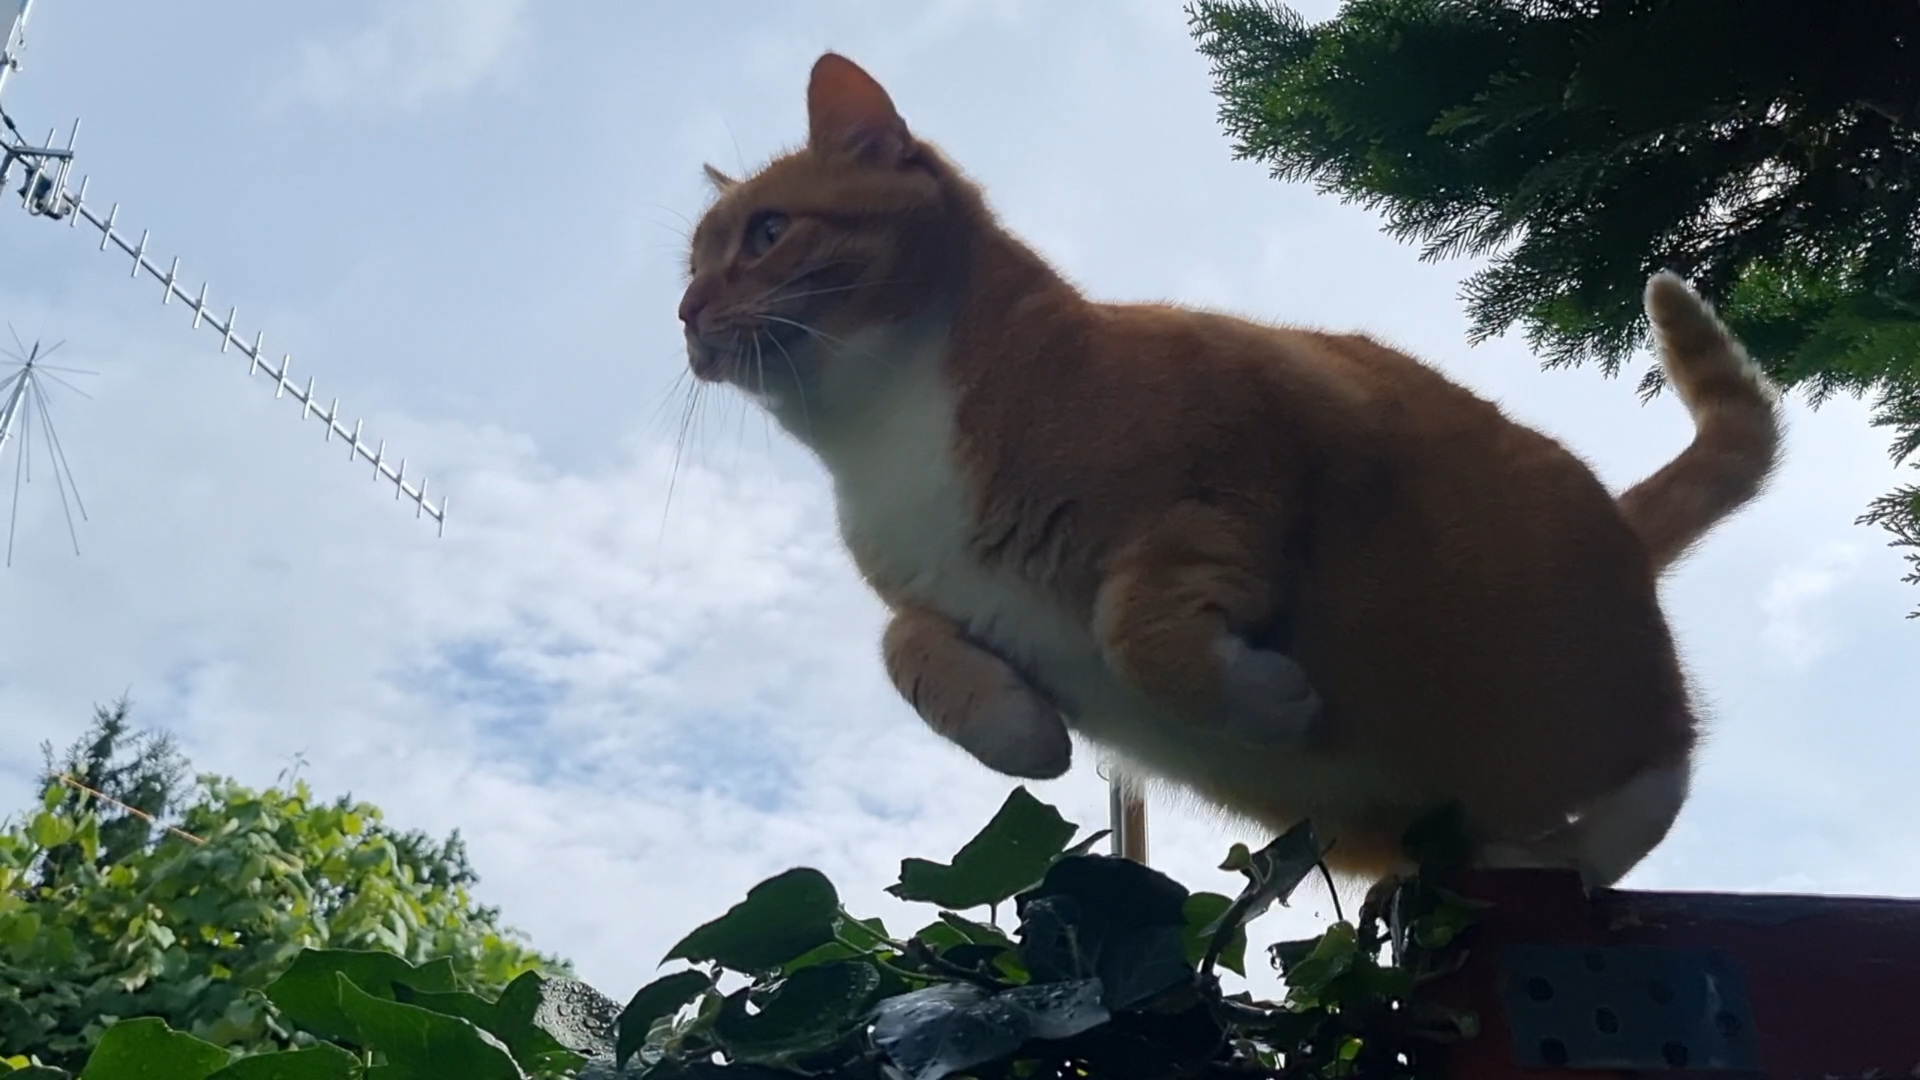
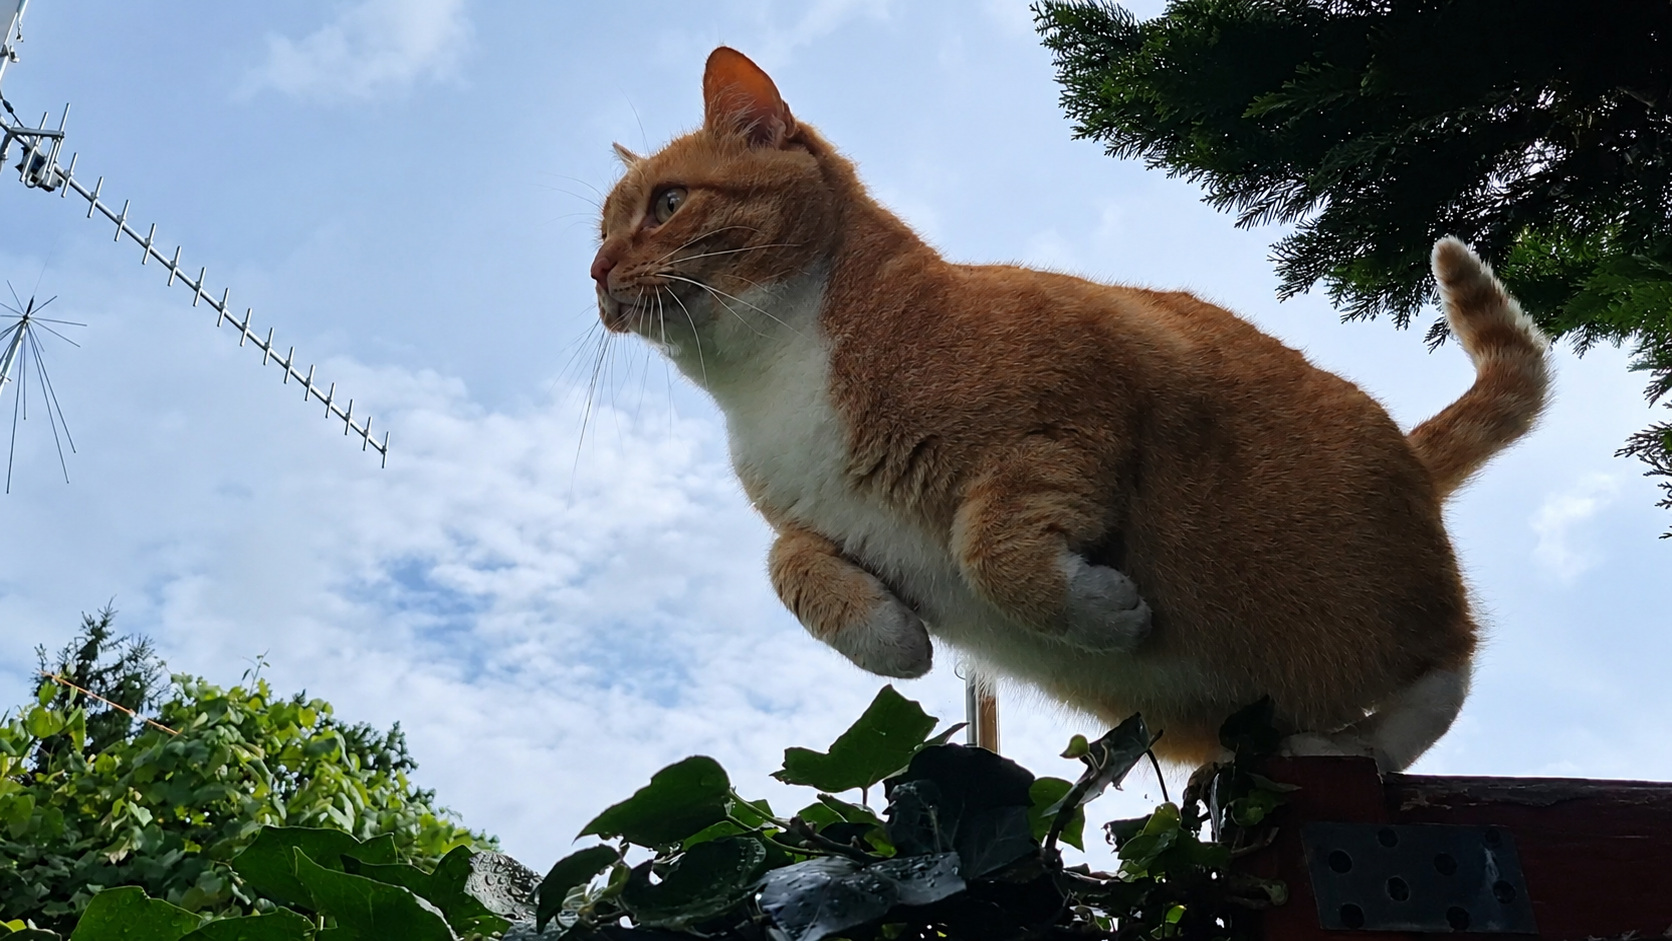
Zmiana lokalizacji plików

diff --git a/content/docs/meshcore/anteny.md b/content/docs/meshcore/anteny.md
@@ -21,8 +21,8 @@ Przykładowo, jeśli antena posiada złącze `RP-SMA Female` (z pinem w środku)
 
 <div class="docs-img-row">
 	<div class="docs-img-row__item">
-		<a href="/images/photos/sma-female-i-sma-male_new.jpg" data-lightbox aria-label="Powiększ zdjęcie złącza SMA Female i SMA Male">
-			<img src="/images/photos/sma-female-i-sma-male_new.jpg" alt="Złącze SMA Female obok złącza SMA Male" width="760" height="380" class="docs-img-row__hero">
+		<a href="/images/photos/sma-female-i-sma-male.jpg" data-lightbox aria-label="Powiększ zdjęcie złącza SMA Female i SMA Male">
+			<img src="/images/photos/sma-female-i-sma-male.jpg" alt="Złącze SMA Female obok złącza SMA Male" width="760" height="380" class="docs-img-row__hero">
 		</a>
 	</div>
 	<div class="docs-img-row__item">
@@ -66,7 +66,7 @@ Jest jeszcze lepsza wersja, czyli `RG316`. Chińczycy nie produkują jednak taki
 Jeśli napiszesz do sprzedawcy na AliExpress, powinien zrobić Ci taki kabel na zamówienie.
 `RF1.13` może się sprawdzić głównie w companionach - zwykle w ciasnych, dobrze zoptymalizowanych obudowach, gdzie łatwiej poprowadzić tak cienki przewód.
 
-![Porównanie kabla RG178 i 1.13 Cable](/images/photos/rg178-i-rf1.13_new.jpg)
+![Porównanie kabla RG178 i 1.13 Cable](/images/photos/rg178-i-rf1.13.jpg)
 
 > [!CAUTION]
 > Pigtail RG316 nie będzie zbyt elastyczny. W niektórych przypadkach złącze `RF-1` może samo odpiąć się od płytki. W każdym razie i tak zalecamy `RG178` - w większości przypadków nie ma sensu kombinować. Mimo wszystko, jeśli wybierzesz ten lepszy, musisz być świadomy tego, co robisz.
